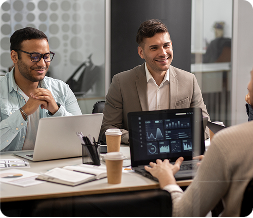
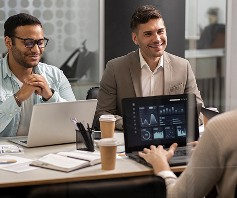
update service page

diff --git a/public/front-assets/css/style.css b/public/front-assets/css/style.css
@@ -17622,7 +17622,7 @@ background-color: #fff;
 #service-page .secondary-image {
   position: absolute;
   width: 60%;
-  height: 40%;
+  height: 60%;
   bottom: 0;
   right: 0;
   z-index: 2;

diff --git a/resources/views/front-design-pages/service.blade.php b/resources/views/front-design-pages/service.blade.php
@@ -94,7 +94,7 @@
                       <img src="{{ $consultancy->details2 }}" alt="Public Training Session" class="primary-image">
 
 
-                      <img src="{{ $consultancy->details3 }}" alt="City Skyline" class="secondary-image">
+                      <img src="{{ $consultancy->details3 }}" alt="City Skyline" style="object-position: top;" class="secondary-image">
                       {{--  <a href="{{ $consultancy->details4 }}" target="_blank" class="image-vid-play"><i class="fas fa-play clr-white"></i></a>  --}}
                       {{-- <img src="{{ asset('front-assets/img/service/Rectangle 102ss51.png') }}" alt="Public Training Session" class="primary-image">
 
